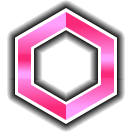
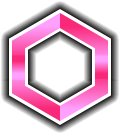
Notes: EACH HOLD, EX HOLD

diff --git a/src/resourceReader.ts b/src/resourceReader.ts
@@ -16,10 +16,18 @@ import tapDoubleSlideExIcon from './resource/img/star_ex_double.png';
 import holdHeadIcon from './resource/img/hold_head.png';
 import holdBodyIcon from './resource/img/hold_body.png';
 
+import holdEachHeadIcon from './resource/img/hold_each_head.png';
+import holdEachBodyIcon from './resource/img/hold_each_body.png';
+
+import holdExHeadIcon from './resource/img/hold_ex_head.png';
+import holdExBodyIcon from './resource/img/hold_ex_body.png';
+
 import holdIcon from './resource/img/hold.png';
 import holdEachIcon from './resource/img/hold_each.png';
 import holdExIcon from './resource/img/hold_ex.png';
 import holdShortIcon from './resource/img/short_hold.png';
+import holdEachShortIcon from './resource/img/short_hold_each.png';
+import holdExShortIcon from './resource/img/short_hold_ex.png';
 
 import touchIcon from './resource/img/UI_NOTES_Touch_01.png';
 import touchCenterIcon from './resource/img/UI_NOTES_Touch_Point.png';
@@ -65,6 +73,20 @@ export const holdBody = new Image();
 holdBody.src = holdBodyIcon;
 export const holdShort = new Image();
 holdShort.src = holdShortIcon;
+
+export const holdEachHead = new Image();
+holdEachHead.src = holdEachHeadIcon;
+export const holdEachBody = new Image();
+holdEachBody.src = holdEachBodyIcon;
+export const holdEachShort = new Image();
+holdEachShort.src = holdEachShortIcon;
+
+export const holdExHead = new Image();
+holdExHead.src = holdExHeadIcon;
+export const holdExBody = new Image();
+holdExBody.src = holdExBodyIcon;
+export const holdExShort = new Image();
+holdExShort.src = holdExShortIcon;
 
 export const touch = new Image();
 touch.src = touchIcon;

diff --git a/src/App.tsx b/src/App.tsx
@@ -6,6 +6,12 @@ import { Beat, Note, NoteType, ReadMaimaiData } from './maireader';
 import {
   hold,
   holdBody,
+  holdEachBody,
+  holdEachHead,
+  holdEachShort,
+  holdExBody,
+  holdExHead,
+  holdExShort,
   holdHead,
   holdShort,
   music,
@@ -639,17 +645,13 @@ const drawNote = (ctx: CanvasRenderingContext2D, note: Note, isEach: boolean = f
       break;
     case NoteType.Hold:
       if (isEach) {
-        if (note.isBreak) {
-          drawHoldImage(holdHead, holdBody, holdShort, note.isShortHold);
-        } else {
-          drawHoldImage(holdHead, holdBody, holdShort, note.isShortHold);
-        }
+        drawHoldImage(holdEachHead, holdEachBody, holdEachShort, note.isShortHold);
       } else {
-        if (note.isBreak) {
-          drawHoldImage(holdHead, holdBody, holdShort, note.isShortHold);
-        } else {
-          drawHoldImage(holdHead, holdBody, holdShort, note.isShortHold);
-        }
+        drawHoldImage(holdHead, holdBody, holdShort, note.isShortHold);
+      }
+
+      if (note.isEx) {
+        drawHoldImage(holdExHead, holdExBody, holdExShort, note.isShortHold);
       }
       break;
     case NoteType.Slide:
